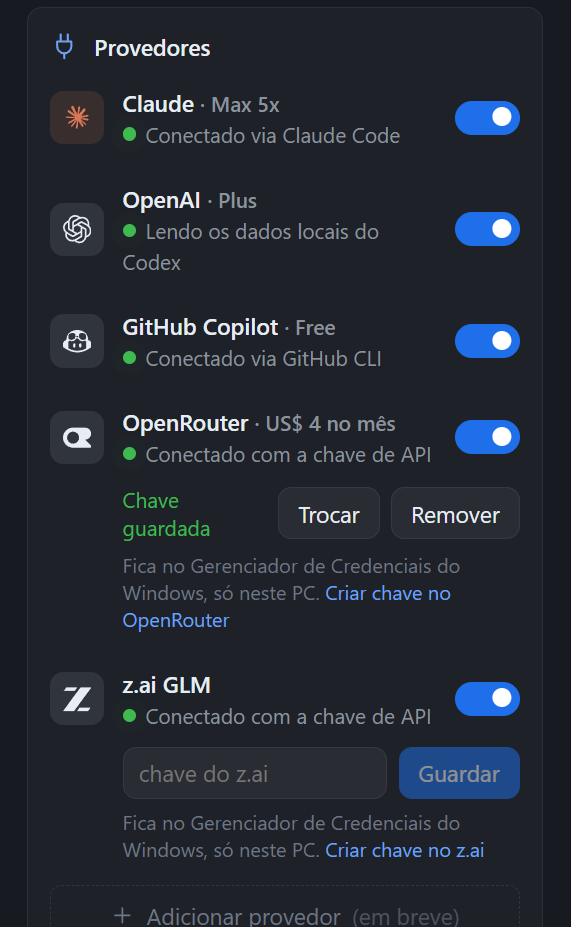
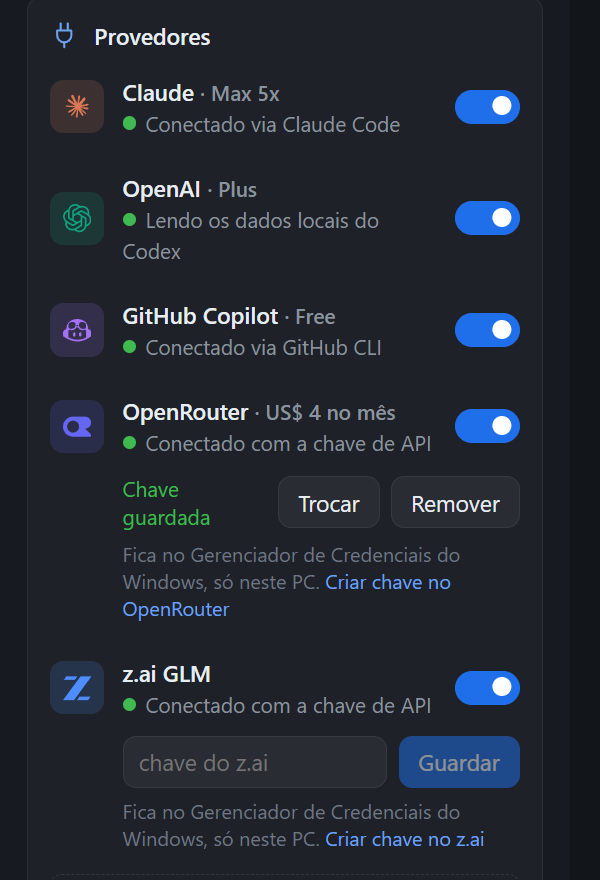
feat: cada provedor com a sua cor de marca (mesmo padrão do Claude)
Logo colorido e fundo suave da mesma cor nas abas, nos cartões e nas Configurações,
a partir de um único mapa (PROVIDER_COLORS). Prints do PR atualizados.

Claude-Session: https://claude.ai/code/session_01PmRmbkgseZaeojb6vGHBiT

diff --git a/src/styles.css b/src/styles.css
@@ -151,8 +151,7 @@ button.tab { background: none; border: 0; font: inherit; font-weight: 600; curso
 .toast { display: flex; gap: 8px; align-items: flex-start; margin-top: 10px; background: #1c2128; border: 1px solid #30363d; border-radius: 6px; padding: 7px 9px; font-size: 11px; }
 .toast svg { color: var(--warn); margin-top: 1px; }
 .prov { display: flex; align-items: center; gap: 10px; padding: 9px 0; }
-.plogo { width: 28px; height: 28px; border-radius: 7px; display: grid; place-items: center; background: rgba(217, 119, 87, 0.14); }
-.plogo.neutral { background: rgba(139, 148, 158, 0.16); color: var(--text); }
+.plogo { width: 28px; height: 28px; border-radius: 7px; display: grid; place-items: center; background: color-mix(in srgb, var(--pc, #8b949e) 16%, transparent); }
 .plogo-svg { flex: none; }
 .pulse { width: 7px; height: 7px; border-radius: 50%; background: var(--ok); display: inline-block; margin-right: 5px; vertical-align: 1px; animation: pl 2s infinite; }
 @keyframes pl {

diff --git a/src/lib/providers.test.ts b/src/lib/providers.test.ts
@@ -1,5 +1,5 @@
 import { describe, expect, it } from "vitest";
-import { PROVIDER_LOGO_PATHS } from "../icons/providerLogos";
+import { PROVIDER_COLORS, PROVIDER_LOGO_PATHS, providerColor } from "../icons/providerLogos";
 import { PROVIDERS, hoverWindows, pickActive, providerStatus, withProviderEnabled, worstSnapshot } from "./providers";
 import type { Config, Snapshot } from "./types";
 
@@ -25,6 +25,15 @@ describe("logos", () => {
     for (const p of PROVIDERS.filter((x) => x.id !== "claude")) {
       expect(PROVIDER_LOGO_PATHS[p.id], p.id).toMatch(/^M[\d.\-\s]/);
     }
+  });
+});
+
+describe("cores dos provedores", () => {
+  it("todo provedor tem uma cor própria em hexadecimal, todas diferentes", () => {
+    const cores = PROVIDERS.map((p) => PROVIDER_COLORS[p.id]);
+    for (const c of cores) expect(c).toMatch(/^#[0-9a-f]{6}$/i);
+    expect(new Set(cores).size).toBe(PROVIDERS.length);
+    expect(providerColor("desconhecido")).toMatch(/^#[0-9a-f]{6}$/i);
   });
 });
 

diff --git a/src/components/ProviderMark.tsx b/src/components/ProviderMark.tsx
@@ -1,5 +1,5 @@
 import { ClaudeLogo, Icon } from "../icons/icons";
-import { PROVIDER_LOGO_PATHS } from "../icons/providerLogos";
+import { PROVIDER_LOGO_PATHS, providerColor } from "../icons/providerLogos";
 
 /** Logo do provedor; sem logo próprio cai no ícone genérico de conexão. */
 export function ProviderMark({ id, size = 15 }: { id: string; size?: number }) {
@@ -7,7 +7,7 @@ export function ProviderMark({ id, size = 15 }: { id: string; size?: number }) {
   const path = PROVIDER_LOGO_PATHS[id];
   if (!path) return <Icon name="plug" size={size - 1} />;
   return (
-    <svg className="plogo-svg" viewBox="0 0 24 24" width={size} height={size} fill="currentColor" fillRule="evenodd" aria-hidden="true">
+    <svg className="plogo-svg" style={{ color: providerColor(id) }} viewBox="0 0 24 24" width={size} height={size} fill="currentColor" fillRule="evenodd" aria-hidden="true">
       <path d={path} />
     </svg>
   );

diff --git a/src/components/settings/SettingsView.tsx b/src/components/settings/SettingsView.tsx
@@ -1,5 +1,6 @@
 import { invoke } from "@tauri-apps/api/core";
-import { Fragment } from "react";
+import { type CSSProperties, Fragment } from "react";
+import { providerColor } from "../../icons/providerLogos";
 import { openUrl } from "@tauri-apps/plugin-opener";
 import { Icon } from "../../icons/icons";
 import { PROVIDERS, providerStatus, withProviderEnabled } from "../../lib/providers";
@@ -92,7 +93,7 @@ export function SettingsView({ state, onBack }: { state: AppState; onBack: () =>
           return (
             <Fragment key={p.id}>
             <div className="prov">
-              <div className={`plogo${p.id === "claude" ? "" : " neutral"}`}>
+              <div className="plogo" style={{ "--pc": providerColor(p.id) } as CSSProperties}>
                 <ProviderMark id={p.id} />
               </div>
               <div className="lbl grow">

diff --git a/src/icons/providerLogos.ts b/src/icons/providerLogos.ts
@@ -6,3 +6,16 @@ export const PROVIDER_LOGO_PATHS: Record<string, string> = {
   openrouter: "M18.654 3.87a5.087 5.087 0 110 10.174L23.7 19.09c.64.641.187 1.737-.72 1.737H8.48a8.479 8.479 0 010-16.958h10.175zM8.479 7.26a5.087 5.087 0 100 10.176 5.087 5.087 0 000-10.175z",
   zai: "M12.105 2L9.927 4.953H.653L2.83 2h9.276zM23.254 19.048L21.078 22h-9.242l2.174-2.952h9.244zM24 2L9.264 22H0L14.736 2H24z",
 };
+
+/** Cor de cada provedor: logo e fundo do ícone seguem o mesmo padrão do Claude. */
+export const PROVIDER_COLORS: Record<string, string> = {
+  claude: "#d97757",
+  openai: "#10a37f",
+  copilot: "#a371f7",
+  openrouter: "#6467f2",
+  zai: "#4d8dff",
+};
+
+export function providerColor(id: string): string {
+  return PROVIDER_COLORS[id] ?? "#8b949e";
+}
